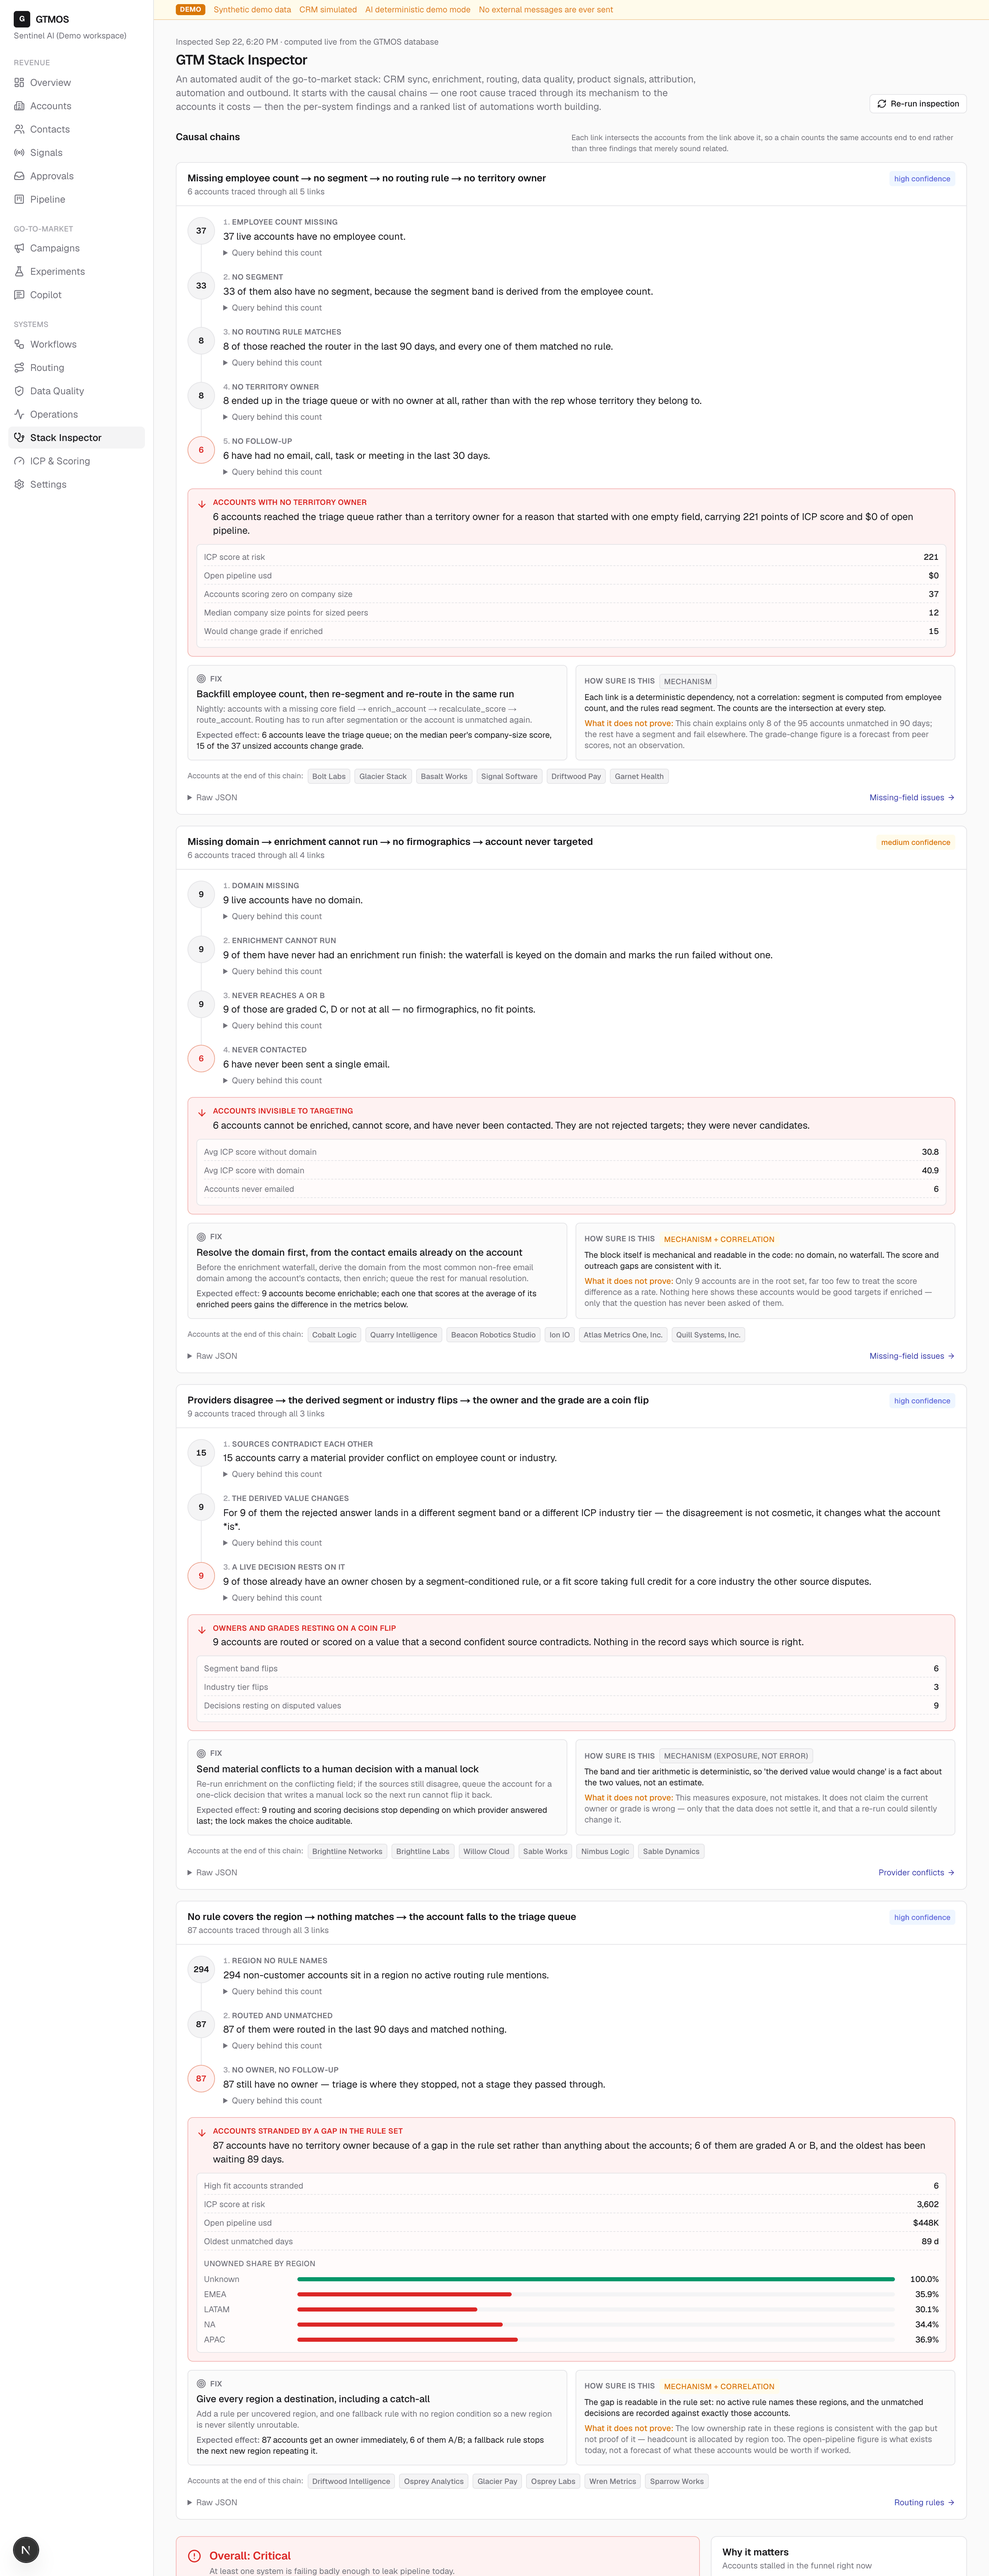
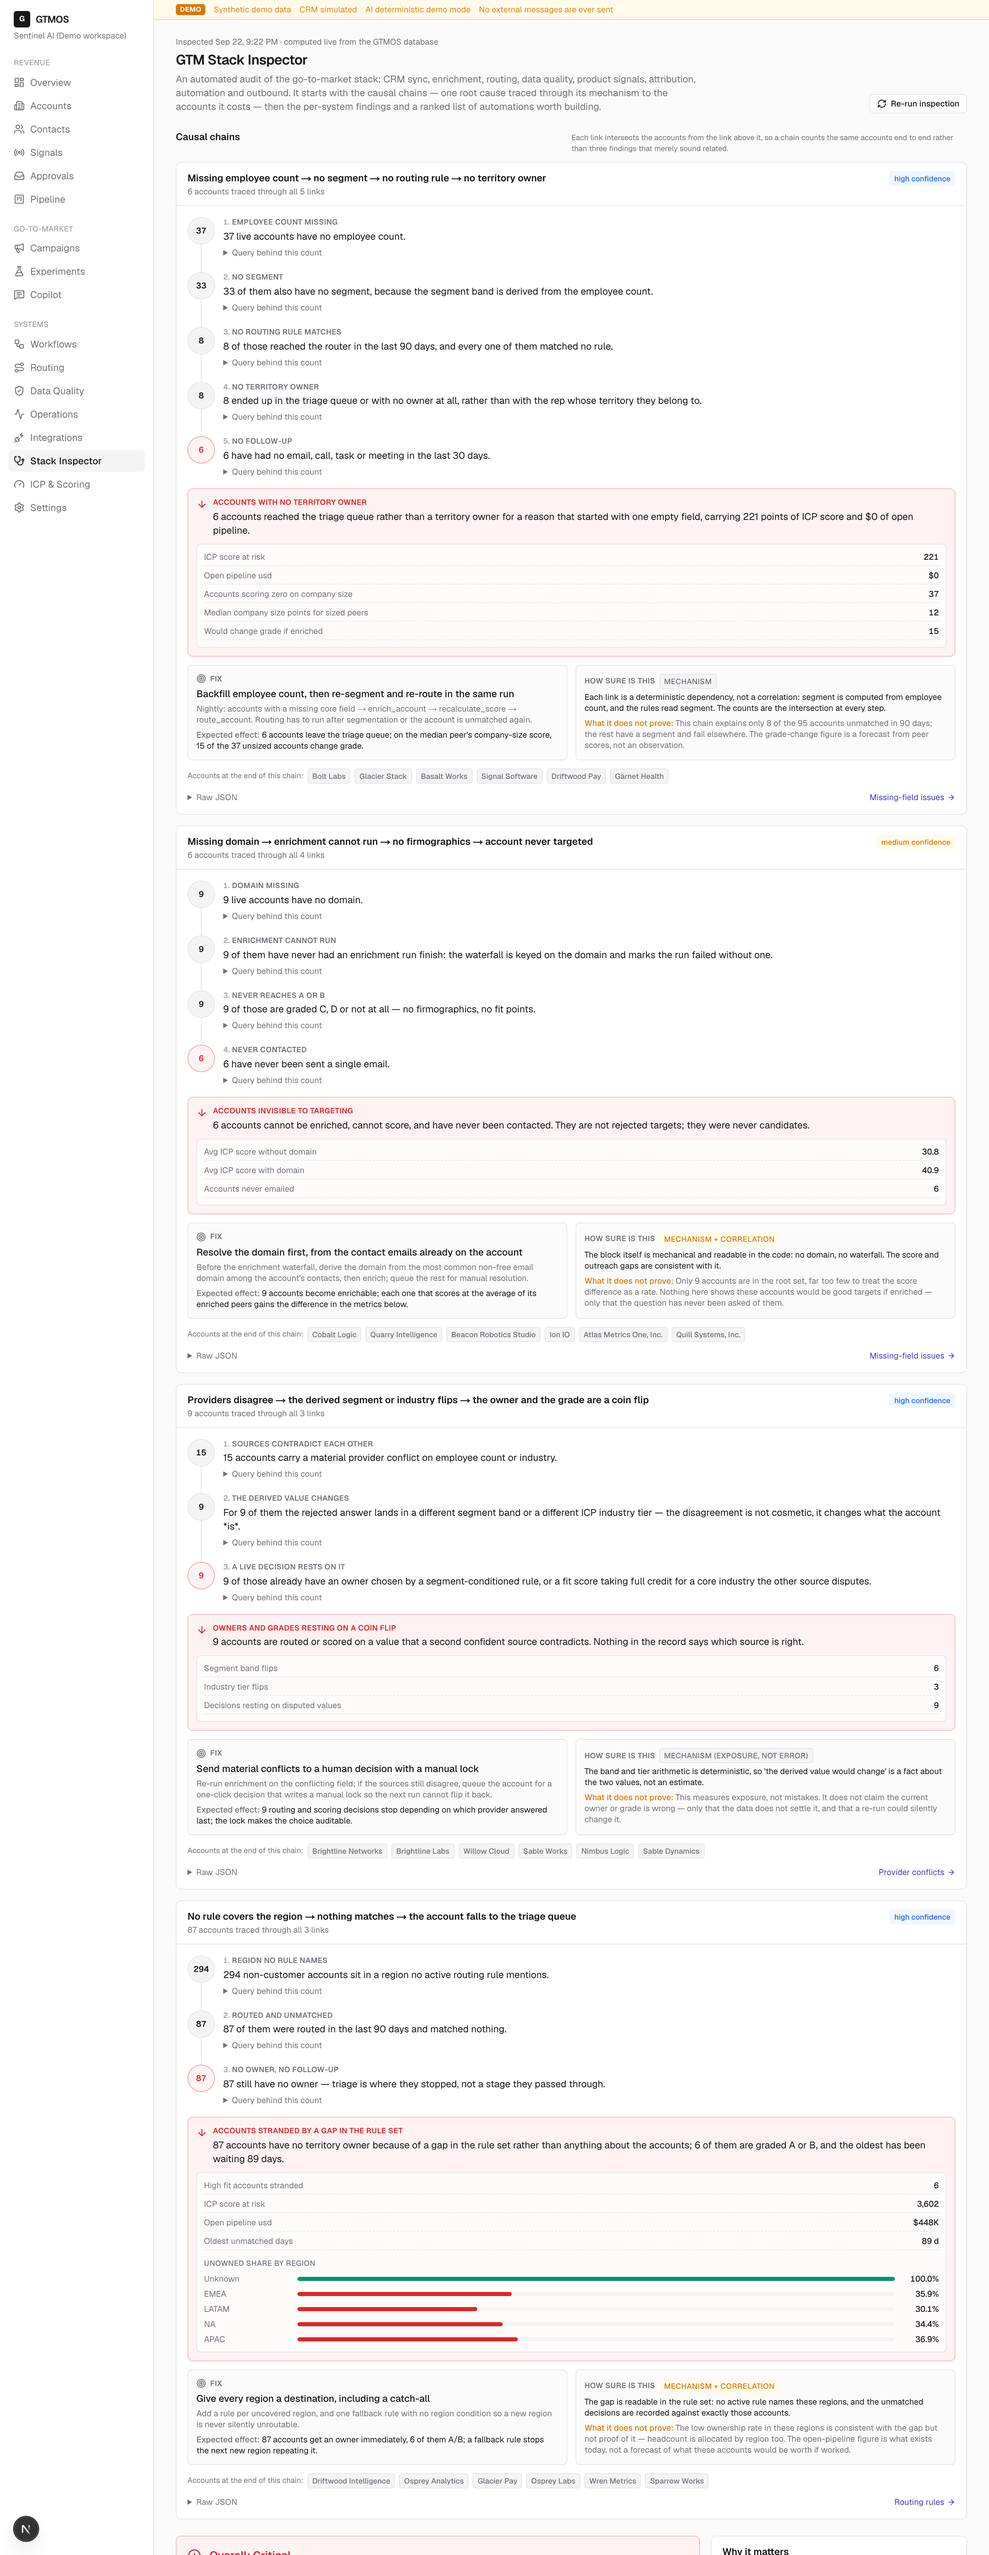
Refresh the screenshot set for the Phase 3 surfaces
Eighteen shots at 2x, including the new integrations page, operations,
approvals, copilot and a mobile overview. Captions in docs/screenshots.md
now say what each shot is evidence of rather than naming the page again.

diff --git a/docs/screenshots.md b/docs/screenshots.md
@@ -2,106 +2,112 @@
 
 Every screen below is the running app in demo mode against the seeded **synthetic** dataset (2,006 simulated accounts, simulated CRM, deterministic AI; no external message is ever sent). Numbers are computed live from the database, but the underlying data is generated, not a real company's.
 
-Captured at 1440x900, 2x pixel density, light mode.
+Captured at 1440x900, 2x pixel density, light mode. Pages that run past a few screens (accounts, scoring, signals, pipeline, routing, workflows, data quality, stack inspector, operations) were shot in a taller viewport rather than as a full-page ribbon, so the panels that matter stay readable.
 
 ## 1. Overview — command centre
 
 ![GTMOS command centre](screenshots/01-overview.png)
 
-Every headline number carries its denominator (2,006 accounts, 93% fully enriched; $5.7M pipeline across 63 opportunities), and the system-health panel grades its own subsystems `critical`/`warning` rather than showing all green.
+Every headline number carries its denominator (2,006 accounts, 93% fully enriched; $5.6M pipeline created across 62 opportunities), and the cohort funnel fixes its denominator at 499 accounts first contacted in 90 days so later stages cannot be counted against a shrinking base.
 
 ## 2. Accounts
 
 ![Account list](screenshots/02-accounts.png)
 
-All 2,006 accounts ranked by ICP score, with the five scoring categories drawn as a per-row breakdown bar so the shape of a score is visible before you open the record.
+All 2,006 accounts ranked by ICP score, with the five scoring categories (fit, intent, timing, technical, engagement) drawn as a per-row breakdown bar, so the shape of a score is visible before you open the record.
 
 ## 3. Kestrel Analytics — the flagship account
 
 ![Flagship account score breakdown](screenshots/03-account-kestrel.png)
 
-The score breakdown traces every point to a named rule with its evidence, confidence, typical strength and half-life decay (e.g. "AI/ML hiring surge … 45-day half-life → 89% of 10 pts" = 8.9/10), and the provenance table records the source and confidence of each enriched field.
+The score breakdown traces every point to a named rule with its evidence, confidence, typical strength and half-life decay ("AI/ML hiring surge … 45-day half-life → 89% of 10 pts" = 8.9/10), and the provenance table records the source and confidence of each enriched field.
 
 ## 4. ICP and scoring model
 
 ![Scoring model and backtest](screenshots/04-scoring.png)
 
-The weights and point budgets are editable and versioned, and the "Does the score work?" panel backtests them against realised meetings — reporting AUC per variant (0.537 structural vs 0.593 total) and naming the leakage and selection effects that inflate the higher number.
+The weights and signal point budgets are editable and versioned, and the "Does the score work?" panel backtests them against realised meetings — 0.537 AUC for the structural variant against 0.593 for the total score, with the +0.056 gap labelled as leakage because engagement points are downstream of the outcome being predicted.
 
 ## 5. Signals
 
 ![Signal feed](screenshots/05-signals.png)
 
-1,935 timestamped signals, each with source, confidence and strength, plus the decay rules (per-type half-life and point caps) that decide how much an old signal is still worth.
+1,935 signals over 30 days, each with its source, confidence and strength, alongside the decay rules (per-type half-life and category point caps) that decide how much an old signal is still worth.
 
 ## 6. Pipeline and attribution
 
 ![Pipeline and attribution models](screenshots/06-pipeline.png)
 
-Four attribution models are shown side by side with the spread between them per campaign (up to 96%), followed by a worked example of one $320K deal where the models disagree — and the explicit note that no model here is causal.
+Four attribution models are shown side by side across 77 opportunities with the spread between them per campaign (up to 48%), then a worked example — one $320K Solstice Metrics deal where first touch gives a webinar 100% and last touch gives it 0% — plus an explicit note that none of these models is causal.
 
 ## 7. Experiments
 
 ![Experiment list](screenshots/07-experiments.png)
 
-Each test declares its primary metric and pre-registered minimum sample; two of the three are held at "insufficient sample" or "no significant difference" rather than being called early.
+Each test declares its primary metric and pre-registered minimum sample up front; two of the three are held at "Insufficient sample" or "No significant difference" rather than being called early.
 
 ## 8. Experiment detail — a win that should not ship
 
 ![Provocative subject line experiment](screenshots/08-experiment-provocative-subject.png)
 
-The treatment beat control on reply rate by +16.3pp (p < 0.001) and the recommendation is still **do not ship**: unsubscribe rate (2.90% against a 1.00% ceiling) and negative reply rate breached their guardrails, which are checked one-sided and never traded off against the primary metric.
+The treatment beat control on reply rate by +16.3pp (p < 0.001) and the recommendation is still **do not ship**: unsubscribe rate went from 0.00% to 2.90% against a 1.00% ceiling and negative reply rate from 2.63% to 10.14%, and guardrails are checked one-sided and never traded off against the primary metric.
 
 ## 9. Routing
 
 ![Routing rules and speed to first touch](screenshots/09-routing.png)
 
-The priority-ordered rule set with its conflict-resolution policy, a dry-run simulator, and a speed-to-first-touch panel that reports the misses by name: 79% met the SLA, 106 touched late, 21 never touched at all.
+Seven priority-ordered rules with a stated conflict-resolution policy and a dry-run simulator, above a speed-to-first-touch panel that names the misses: 79% met the SLA, 106 touched late, 22 never touched at all, broken out per rule.
 
 ## 10. Workflows
 
 ![Workflow definitions](screenshots/10-workflows.png)
 
-Four event-driven workflows shown as trigger → conditions → ordered actions, with the engine guarantees stated (idempotent, resumable, retries with backoff, dead letter) and 30-day counts that include the 8 failed and 13 dead-lettered runs.
+Four event-driven workflows shown as trigger → conditions → ordered actions, with the engine guarantees stated concretely (idempotent per trigger event, resumable from the failed step, exponential backoff, dead letter) and 30-day counts that include the 7 failed and 13 dead-lettered runs.
 
 ## 11. Data quality
 
 ![Data quality rules and issues](screenshots/11-data-quality.png)
 
-Twelve rules scanning for the defects that silently break routing and scoring — 504 open issues, each with a concrete suggested remediation and a Fix/Ignore action that is written to the audit log with before and after values.
+Twelve rules scanning for the defects that silently break routing and scoring — 504 open issues, 39 high severity — each with a concrete suggested remediation and a Fix/Ignore action written to the audit log with actor and before/after values.
 
 ## 12. Stack Inspector
 
 ![Causal chains in the GTM stack](screenshots/12-stack-inspector.png)
 
-Four causal chains trace a root cause to its business consequence link by link (37 accounts with no employee count → 8 matched no routing rule → 6 never followed up), each with a fix, an expected effect, and an explicit "what it does not prove".
+Four causal chains trace a root cause link by link to the accounts it costs (37 accounts with no employee count → 33 with no segment → 8 matched no routing rule → 6 never followed up), each with a fix, an expected effect, and an explicit "what it does not prove".
 
-## 13. Approvals
+## 13. Integrations
 
-![Approval queue](screenshots/13-approvals.png)
+![Integration boundaries and verification levels](screenshots/13-integrations.png)
 
-Every AI draft stops for a human with its blocking guardrail checks (numbers grounded, no unverifiable claims, signal verified), its reasoning chain and its cited evidence. There is no send button anywhere on the page.
+The honest version of "what are we connected to": only n8n is verified by execution against a real running instance, HubSpot runs on a simulated adapter whose every sync is labelled SIMULATED, and PostHog and Clay are contracts exercised locally that have never exchanged a request with the real service — 1 of 4 real services reached, and nothing is labelled "Connected".
 
-## 14. Copilot
+## 14. Operations
 
-![Copilot answer](screenshots/14-copilot.png)
+![Operations and failure observability](screenshots/14-operations.png)
 
-The question is classified and routed to a whitelist of deterministic metric functions; the answer quotes computed values ($1.76M → $2.66M, biggest decrease Series B–D funding trigger −$157k) and exposes "How this was computed" with the exact metric calls.
+Failure-first observability: a 10.8% workflow failure rate leads the page, and each dead-lettered run names the failing step, the simulated upstream error and a correlation id that ties it to the records it touched.
 
-## 15. Settings — controls
+## 15. Approvals
 
-![Kill switch and individual switches](screenshots/15-settings-controls.png)
+![Approval queue](screenshots/15-approvals.png)
 
-One "Pause all automation" kill switch plus three separate switches for automation, outbound and CRM writes; a blocked request returns 423 with the operator's reason, and queued work resumes where it stopped rather than being dropped.
+Every AI draft stops for a human with its four blocking guardrail checks (numbers grounded, no unverifiable claims, signal verified, contact reachable), its numbered reasoning chain and its cited evidence refs. The only actions are Approve, Send back to draft and Reject — there is no send button anywhere on the page.
 
-## 16. Operations
+## 16. Copilot
 
-![Operations and failure observability](screenshots/16-operations.png)
+![Copilot answer](screenshots/16-copilot.png)
 
-Failure-first observability: an 11.3% workflow failure rate is shown first, with each dead-lettered run naming the failing step, the simulated upstream error and a correlation id that ties it to the record it touched.
+The Copilot never writes SQL: it classifies the question, routes it to a whitelist of deterministic metric functions and renders the computed values ($1.76M → $2.66M, biggest decrease Series B–D funding trigger −$157k), with "How this was computed" exposing the exact metric calls.
 
-## 17. Mobile (Pixel 7)
+## 17. Settings — controls
 
-![Overview on a Pixel 7 viewport](screenshots/17-mobile-overview.png)
+![Kill switch and individual switches](screenshots/17-settings-controls.png)
 
-The same overview at 412x915: the sidebar collapses to a menu, the demo banner stays visible and the metric tiles reflow to two columns without horizontal scrolling.
+One "Pause all automation" kill switch plus three separate switches for automation, outbound and CRM writes, each with the failure it is for; a blocked request returns 423 Locked with the operator's reason, and queued work resumes where it stopped rather than being dropped.
+
+## 18. Mobile (Pixel 7)
+
+![Overview on a Pixel 7 viewport](screenshots/18-mobile-overview.png)
+
+The same overview at 412x915: the sidebar collapses to a menu button, the demo banner stays visible and the metric tiles reflow to two columns without horizontal scrolling.
